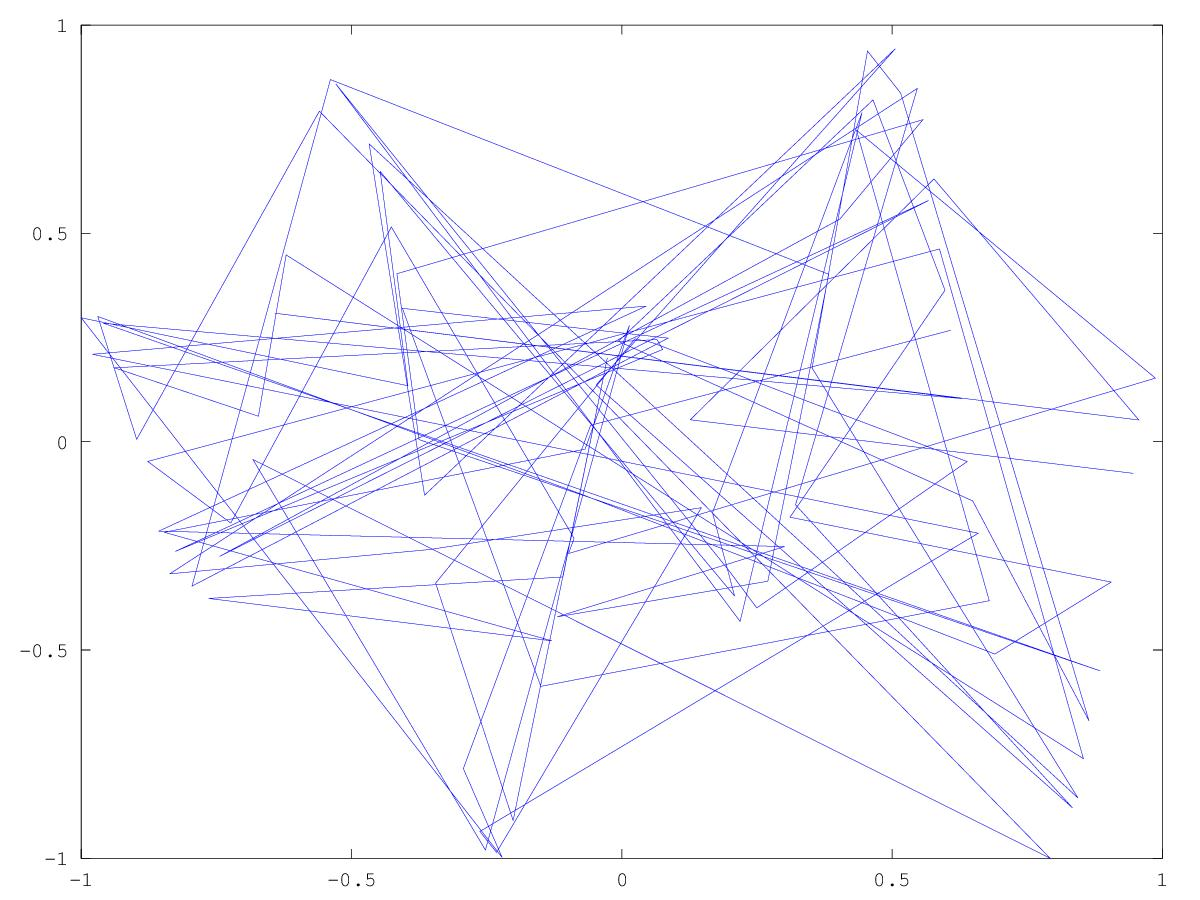
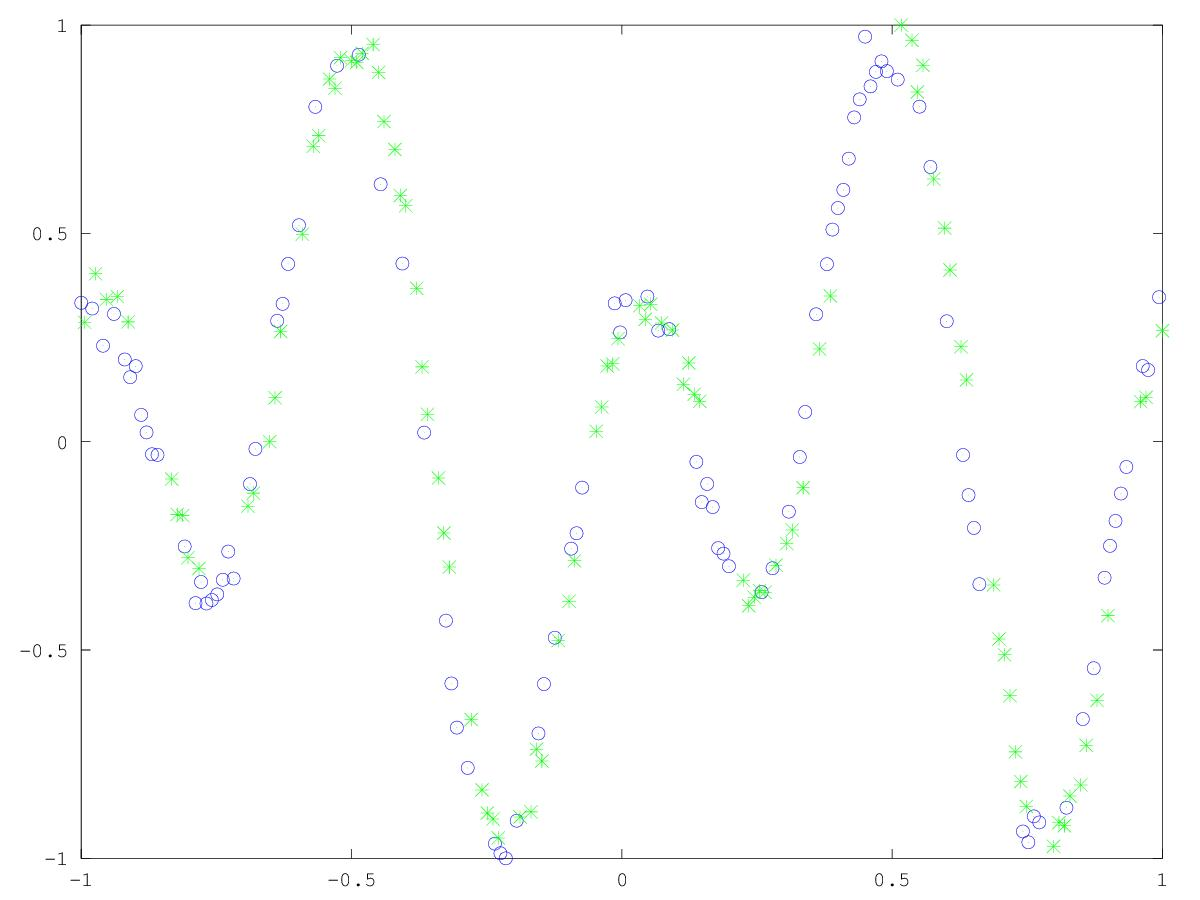
deadline: 2

diff --git a/SNN/KK_snn.m b/SNN/KK_snn.m
@@ -16,9 +16,12 @@ mDane_test = load('snn_test.txt');
 %mDane = load('test_dane.txt');
 
 figure(1);
-plot(mDane(:,1),mDane(:,2));
-plot(mDane_test(:,1),mDane_test(:,2));
-print -djpg "dane_oryginal_all.jpg";
+plot(mDane(:,1),mDane(:,2), "ob", mDane_test(:,1),mDane_test(:,2), "*g");
+xlabel ("x");
+ylabel ("y");
+title ("Dane z plików snn_b.txt i snn_test.txt");
+legend("snn_b.txt", "snn_test.txt");
+print -djpg "dane_all.jpg";
 
 % podzial zbioru na zbior uczacy i testowy
 [mTrain, mTest] = subset(mDane',1,1,1/2);
@@ -31,15 +34,13 @@ plot(mDane(:,1),mDane(:,2));
 print -djpg "dane_norm.jpg";
 
 figure(3);
-plot(mTrain(:,1),mTrain(:,2));
-plot(mTest(:,1),mTest(:,2));
+plot(mTrain(:,1),mTrain(:,2), "ob",mTest(:,1),mTest(:,2), "*g" );
 print -djpg "dane_train_test.jpg";
 
 mTrain = normSet(mTrain);
 mTest = normSet(mTest);
 figure(4);
-plot(mTrain(:,1),mTrain(:,2));
-plot(mTest(:,1),mTest(:,2));
+plot(mTrain(:,1),mTrain(:,2), "ob",mTest(:,1),mTest(:,2), "*g" );
 print -djpg "dane_train_test_norm.jpg";
 
 disp('Wizualizacja danych: zrobiona');
